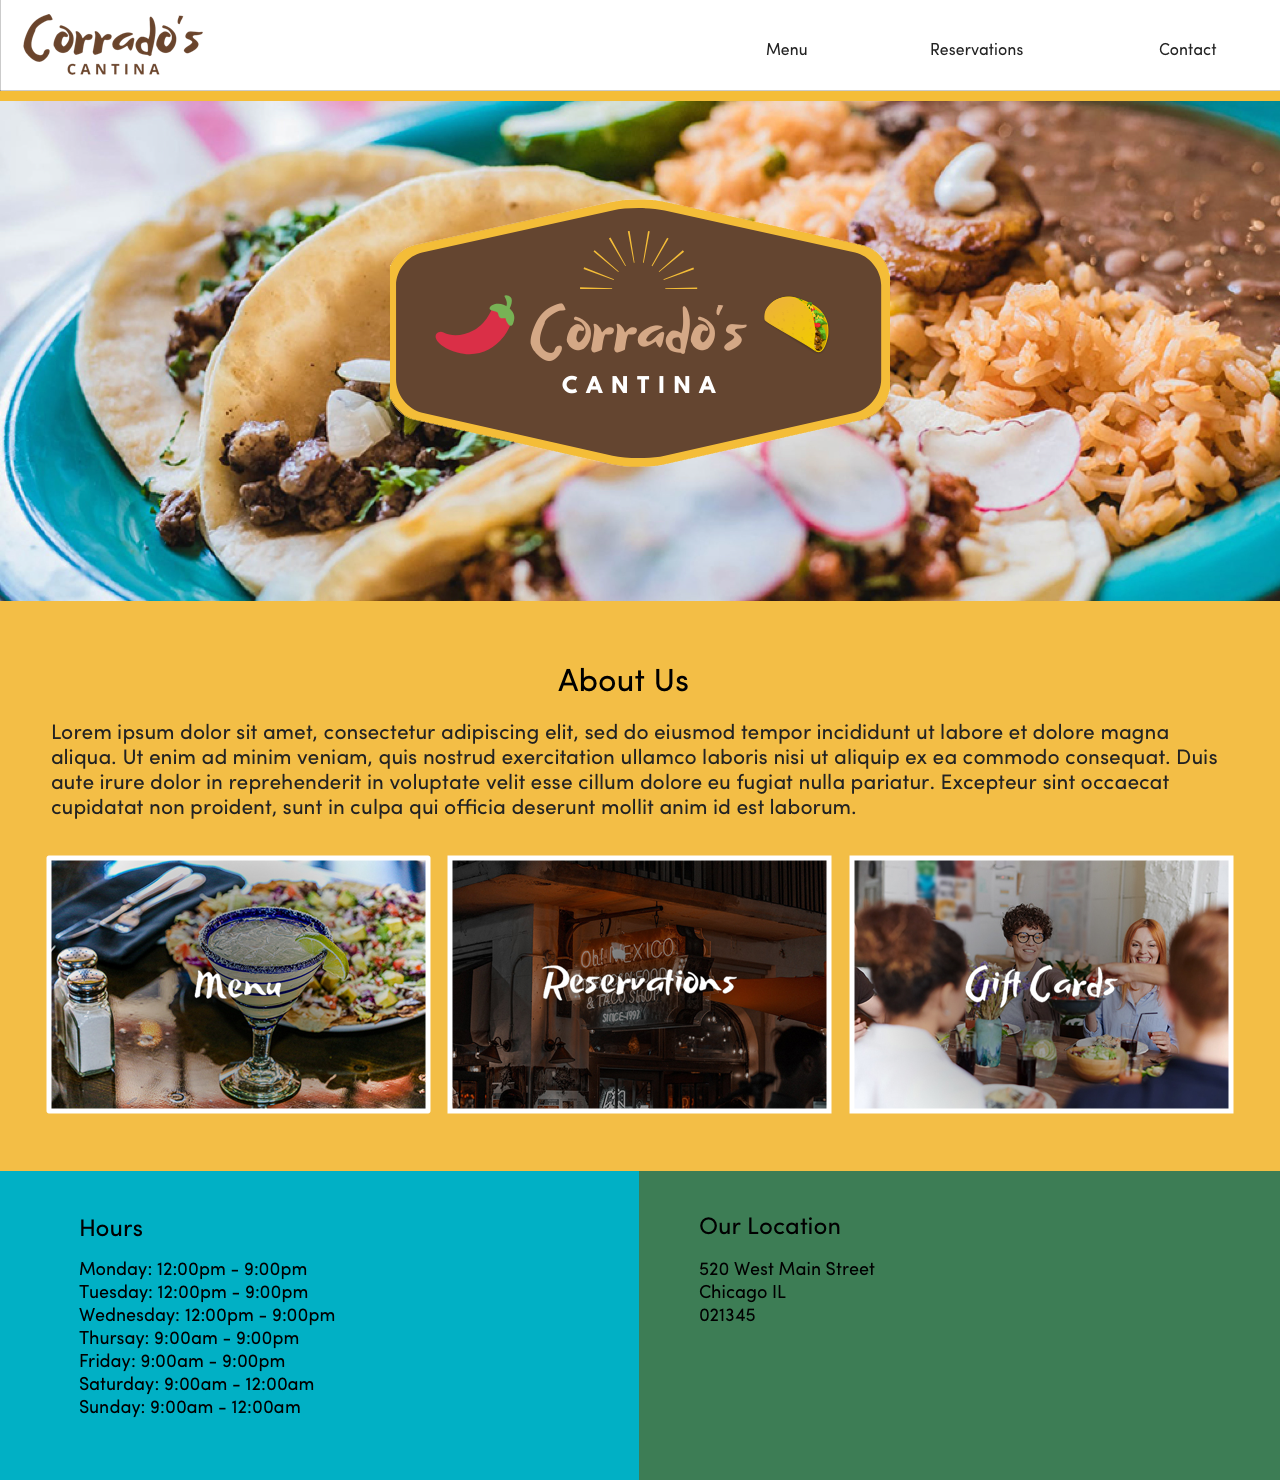
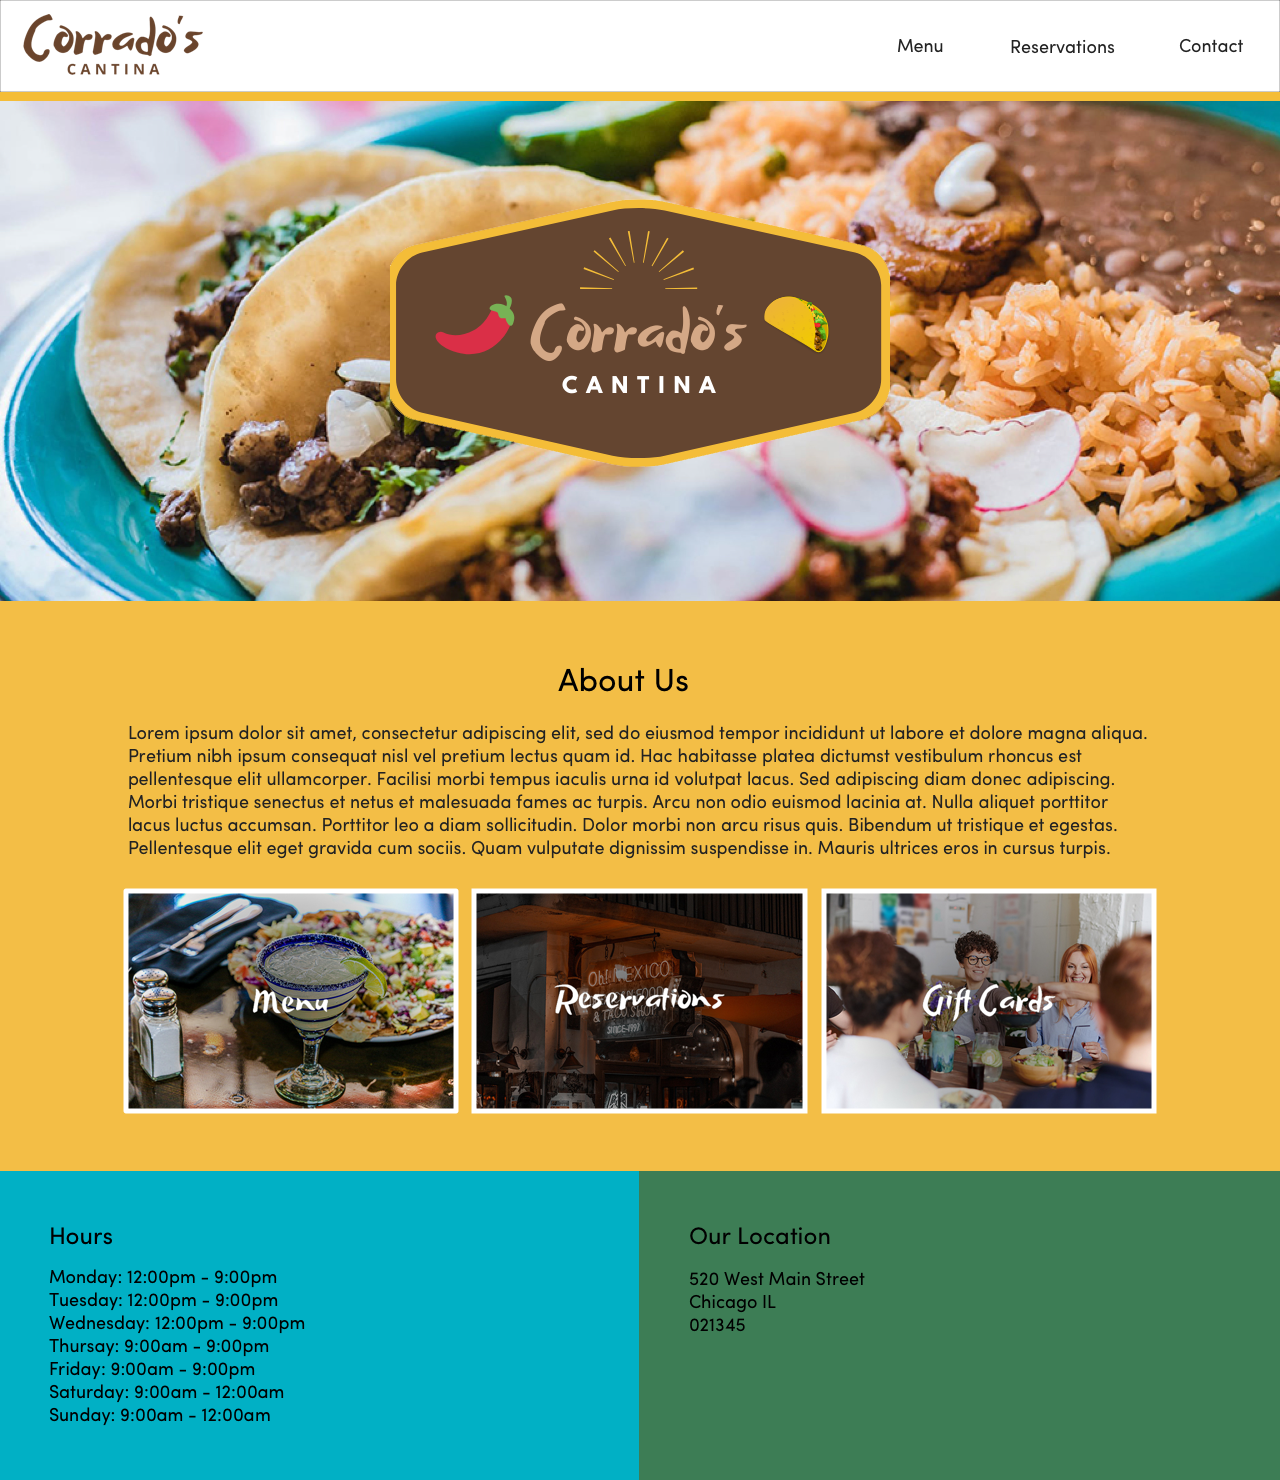
Changed mocks

diff --git a/css-layouts/layout-basics/src/exercises/website-challenge/solution/website-challenge-solution.js b/css-layouts/layout-basics/src/exercises/website-challenge/solution/website-challenge-solution.js
@@ -36,13 +36,7 @@ const MainContent = () => {
         <div className="exMainContent-row1-container">
           <h2>About Us</h2>
           <p>
-            Lorem ipsum dolor sit amet, consectetur adipiscing elit, sed do
-            eiusmod tempor incididunt ut labore et dolore magna aliqua. Ut enim
-            ad minim veniam, quis nostrud exercitation ullamco laboris nisi ut
-            aliquip ex ea commodo consequat. Duis aute irure dolor in
-            reprehenderit in voluptate velit esse cillum dolore eu fugiat nulla
-            pariatur. Excepteur sint occaecat cupidatat non proident, sunt in
-            culpa qui officia deserunt mollit anim id est laborum.
+            Lorem ipsum dolor sit amet, consectetur adipiscing elit, sed do eiusmod tempor incididunt ut labore et dolore magna aliqua. Pretium nibh ipsum consequat nisl vel pretium lectus quam id. Hac habitasse platea dictumst vestibulum rhoncus est pellentesque elit ullamcorper. Facilisi morbi tempus iaculis urna id volutpat lacus. Sed adipiscing diam donec adipiscing. Morbi tristique senectus et netus et malesuada fames ac turpis. Arcu non odio euismod lacinia at. Nulla aliquet porttitor lacus luctus accumsan. Porttitor leo a diam sollicitudin. Dolor morbi non arcu risus quis. Bibendum ut tristique et egestas. Pellentesque elit eget gravida cum sociis. Quam vulputate dignissim suspendisse in. Mauris ultrices eros in cursus turpis. 
           </p>
           <div className="exMainContent-row1-imageWrap">
             <figure className="exMainContent-row1-image">

diff --git a/css-layouts/layout-basics/src/exercises/website-challenge/website-challenge.js b/css-layouts/layout-basics/src/exercises/website-challenge/website-challenge.js
@@ -66,13 +66,7 @@ const MainContent = () => (
     <section>
       <h2>About Us</h2>
       <p>
-        Lorem ipsum dolor sit amet, consectetur adipiscing elit, sed do eiusmod
-        tempor incididunt ut labore et dolore magna aliqua. Ut enim ad minim
-        veniam, quis nostrud exercitation ullamco laboris nisi ut aliquip ex ea
-        commodo consequat. Duis aute irure dolor in reprehenderit in voluptate
-        velit esse cillum dolore eu fugiat nulla pariatur. Excepteur sint
-        occaecat cupidatat non proident, sunt in culpa qui officia deserunt
-        mollit anim id est laborum.
+        Lorem ipsum dolor sit amet, consectetur adipiscing elit, sed do eiusmod tempor incididunt ut labore et dolore magna aliqua. Pretium nibh ipsum consequat nisl vel pretium lectus quam id. Hac habitasse platea dictumst vestibulum rhoncus est pellentesque elit ullamcorper. Facilisi morbi tempus iaculis urna id volutpat lacus. Sed adipiscing diam donec adipiscing. Morbi tristique senectus et netus et malesuada fames ac turpis. Arcu non odio euismod lacinia at. Nulla aliquet porttitor lacus luctus accumsan. Porttitor leo a diam sollicitudin. Dolor morbi non arcu risus quis. Bibendum ut tristique et egestas. Pellentesque elit eget gravida cum sociis. Quam vulputate dignissim suspendisse in. Mauris ultrices eros in cursus turpis. 
       </p>
       <button>Learn More</button>
     </section>

diff --git a/css-layouts/layout-basics/src/reset.css b/css-layouts/layout-basics/src/reset.css
@@ -46,3 +46,6 @@ table {
 	border-collapse: collapse;
 	border-spacing: 0;
 }
+p {
+  line-height: 1.2em;
+}
